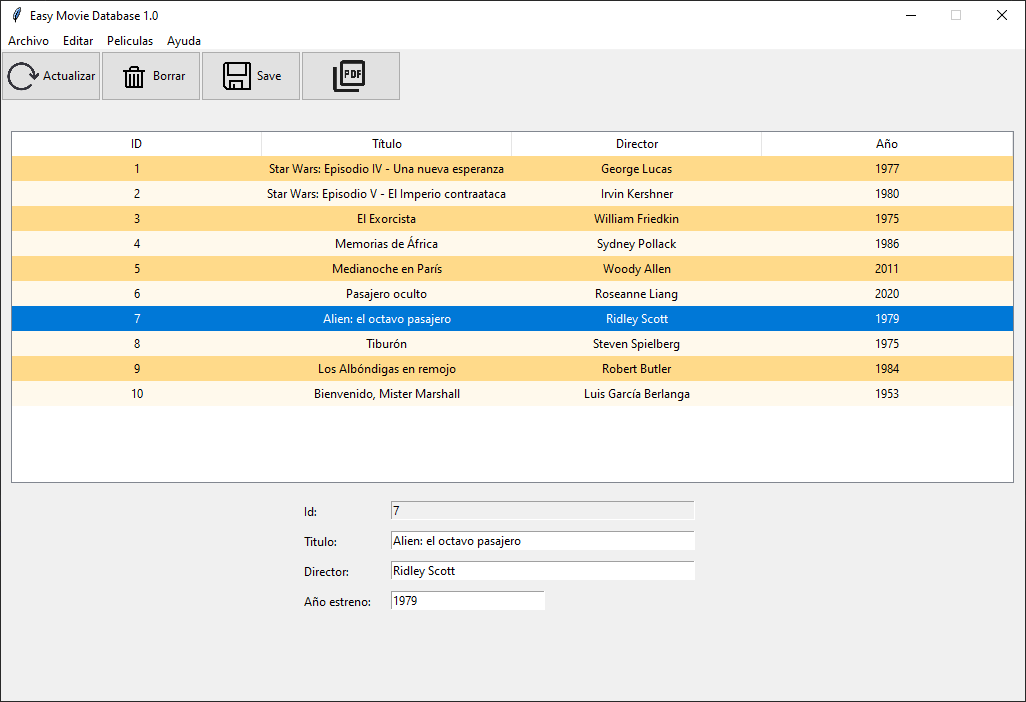
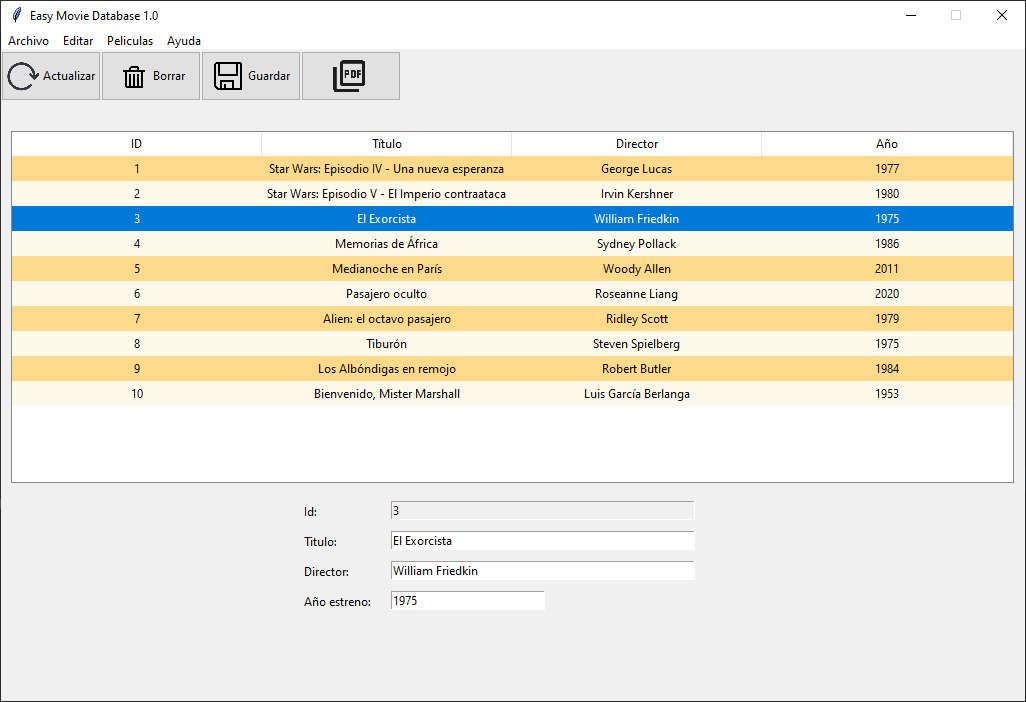
Imágenes para github

diff --git a/ui/frame_edicion.py b/ui/frame_edicion.py
@@ -30,7 +30,7 @@ class FrameEdicion(SuperFrame):
         buttons = (
             ("Actualizar",self.reload,"icons/refresh.png"),
             ("Borrar",self.delete,"icons/delete.png"),
-            ("Save",self.save,"icons/save.png"),            
+            ("Guardar",self.save,"icons/save.png"),
             ("",self.create_pdf,"icons/pdf.png")
         ) 
         self.createToolbar(buttons, self.BUTTONS_WIDTH, self.BUTTONS_HEIGHT)
